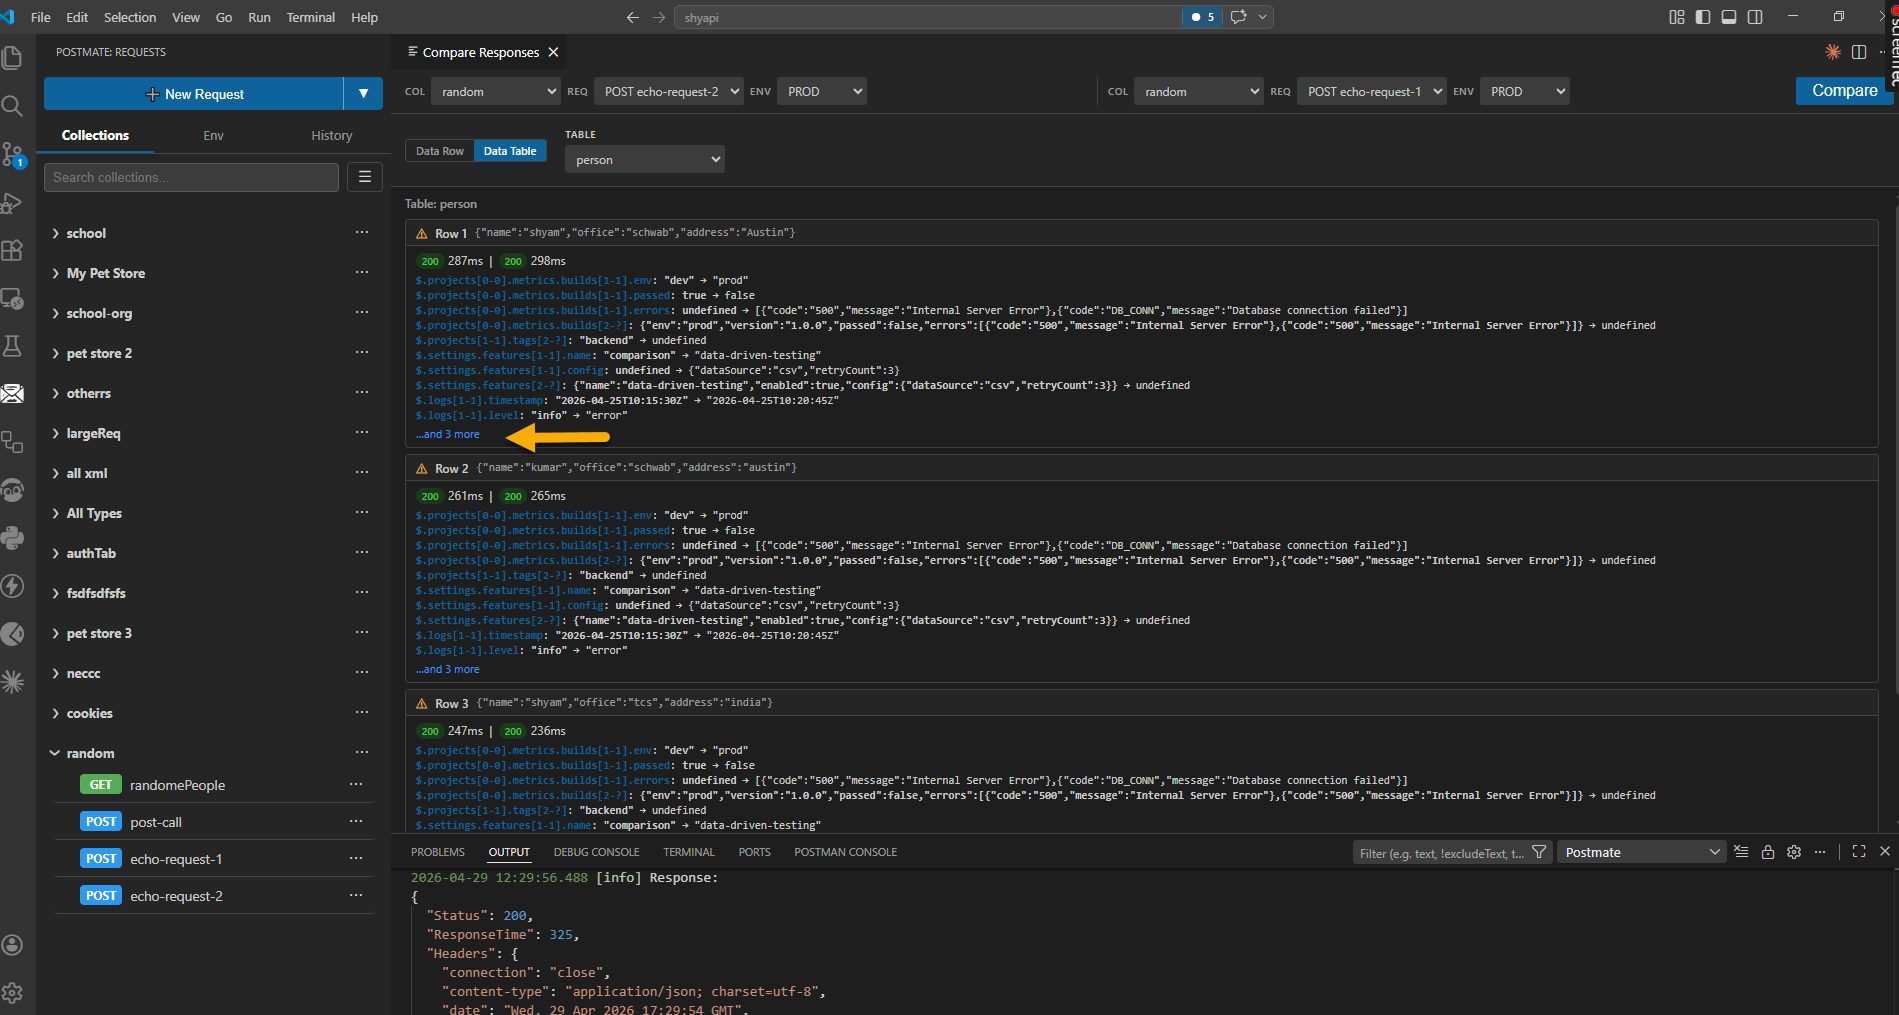
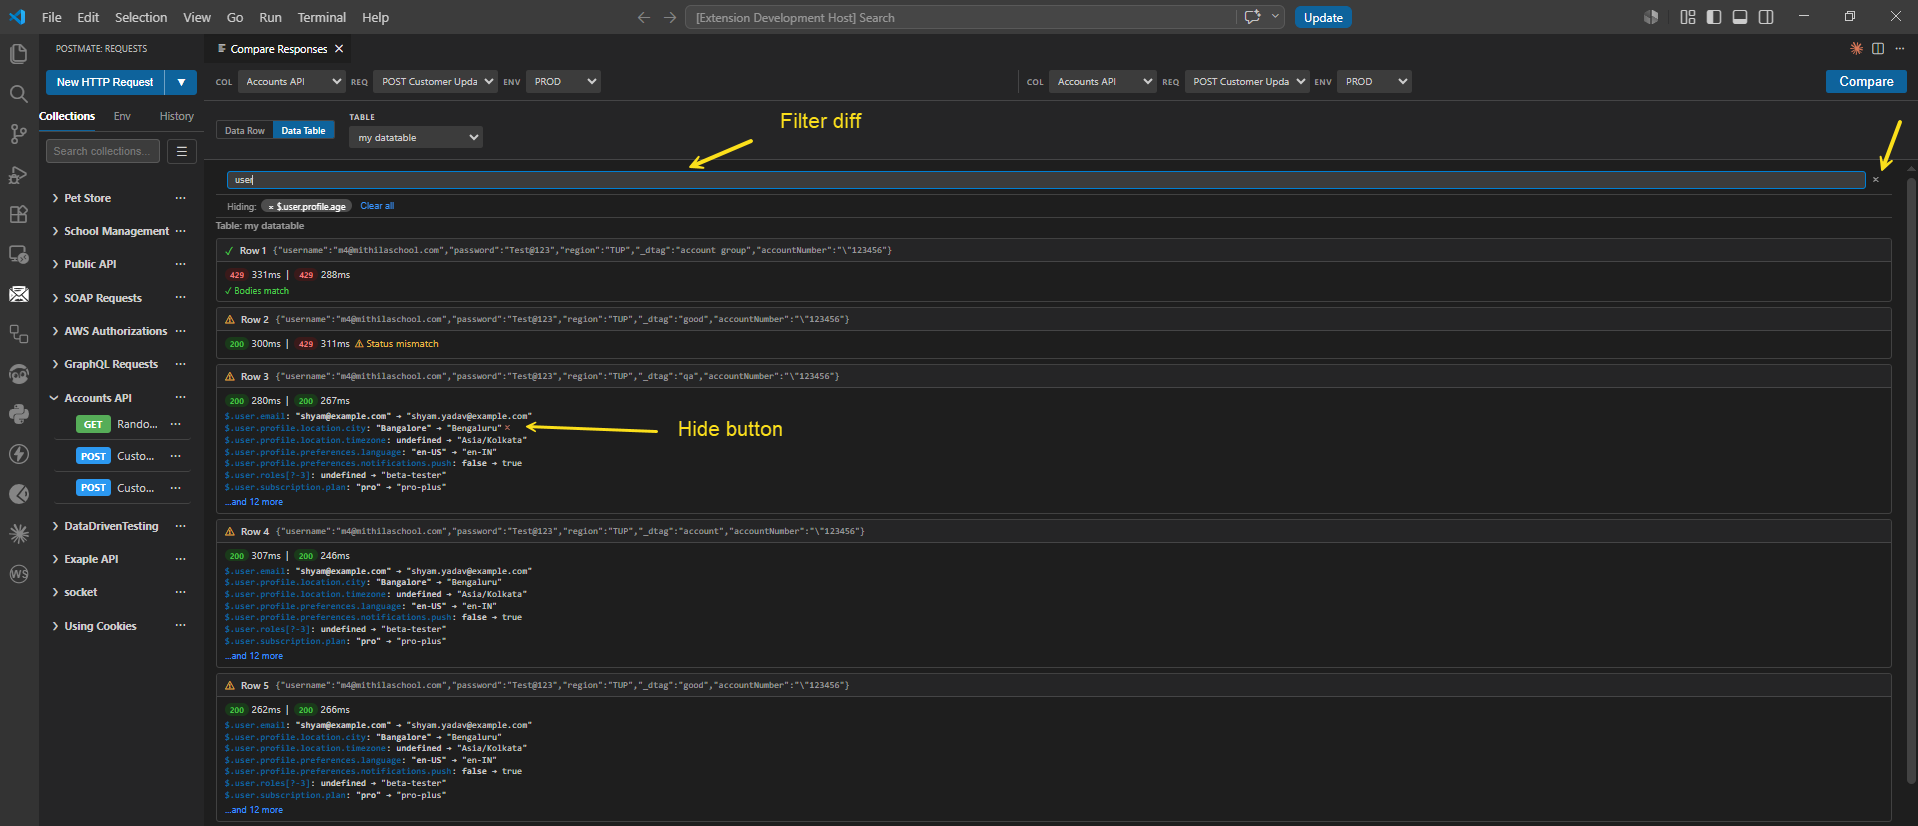
updatge

diff --git a/docs/testing/compare-api-response-bulk-data.md b/docs/testing/compare-api-response-bulk-data.md
@@ -1,18 +1,39 @@
 ---
 title: Compare Bulk API Responses Across Environments | Postmate Client
-description: Compare API responses across two environments using bulk data from a data table. Send parallel requests per row and view only the differences. Ideal for regression testing and environment migrations.
-keywords: compare api responses, bulk api testing, data-driven api testing, api regression testing, compare api across environments, parallel api requests, api response diff, postmate client compare
+description: Compare API responses across two environments using bulk data from a data table. Send parallel requests per row, filter and hide expected diffs, and focus only on what actually changed. Ideal for regression testing and environment migrations.
+keywords: compare api responses, bulk api testing, data-driven api testing, api regression testing, compare api across environments, parallel api requests, api response diff, filter api diff, hide expected diff, postmate client compare, json diff filter, regression noise reduction
+head:
+  - - meta
+    - property: og:title
+      content: Compare Bulk API Responses Across Environments — Postmate Client
+  - - meta
+    - property: og:description
+      content: Compare API responses across two environments using bulk data, filter and hide expected diffs, and focus on what actually changed. Built into VS Code, free.
+  - - meta
+    - property: og:url
+      content: https://www.postmateclient.com/testing/compare-api-response-bulk-data
+  - - meta
+    - name: twitter:title
+      content: Compare Bulk API Responses Across Environments — Postmate Client
+  - - meta
+    - name: twitter:description
+      content: Bulk compare API responses across environments, hide expected diffs, filter noise — free in VS Code.
+  - - link
+    - rel: canonical
+      href: https://www.postmateclient.com/testing/compare-api-response-bulk-data
 ---
 
 # Compare Bulk API Responses Using a Data Table
 
 Postmate Client's **Data Table mode** lets you compare API responses across two environments using bulk input data. Instead of comparing a single request/response pair, Postmate Client sends one request per row in your data table — in parallel to both environments — and shows you only the differences between the responses.
 
+You can also **filter and hide expected differences** so you focus only on what's actually unexpected — turning hundreds of noisy diffs into a clean list of real problems.
+
 This is a companion to [Data Row mode](/testing/compare-api-response). If you're new to response comparison in Postmate Client, start there.
 
-![API response compare with bulk data in postmate client](/public/compare-api-response-bulk.png)
+![Postmate Client bulk API response compare showing per-row diff cards, hide buttons, and filter text box for noise reduction](/compare-api-response-bulk.png)
 
-## When to Use Data Table Mode
+## When to use Data Table mode
 
 Reach for Data Table mode when you need to verify API behavior across many inputs at once. Common scenarios:
 
@@ -23,12 +44,13 @@ Reach for Data Table mode when you need to verify API behavior across many input
 
 If you only need to compare one request, use Data Row mode instead — it's simpler and faster for ad-hoc checks.
 
-## How Data Table Mode Works
+## How Data Table mode works
 
 1. **Pick a data table** — select any data table defined in your collection (for example, a `person` table with columns like `name`, `office`, `address`).
 2. **Select two requests and environments** — choose the request and environment for each side of the comparison (e.g. `POST echo-request-1` on `PROD` vs. `POST echo-request-2` on `PROD`).
 3. **Run the comparison** — Postmate Client iterates through every row in the table and sends both requests in parallel, substituting row values into the request as variables.
 4. **Review per-row diffs** — each row gets its own result card showing only the JSONPath differences between the two responses. Identical fields are hidden so you can focus on what changed.
+5. **Hide expected diffs and filter the noise** — once results start streaming in, use the hide and filter controls (covered below) to reduce hundreds of expected differences into the small set you actually need to investigate.
 
 Each row card displays:
 
@@ -37,9 +59,9 @@ Each row card displays:
 - A line-by-line list of differences using JSONPath notation (e.g. `$.projects[0-0].metrics.builds[1-1].env: "dev" → "prod"`).
 - An expandable **...and N more** link when there are additional differences beyond the first few.
 
-![Select data table for bulk compare](/public/compare-api-responsemode.png)
+![Select data table for bulk compare in Postmate Client](/compare-api-responsemode.png)
 
-## Reading the Diff Output
+## Reading the diff output
 
 Differences are expressed as JSONPath transitions from the left response to the right response. A few examples:
 
@@ -51,28 +73,73 @@ $.logs[1-1].level: "info" → "error"
 
 The notation `[1-1]` refers to array index `1` on both sides; `[2-?]` means the index exists on one side but not the other. A value of `undefined` on either side of the arrow means the field is missing in that response.
 
-## Parallel Execution
+## Filter and hide expected diffs
+
+Bulk comparison runs can produce hundreds or thousands of diffs across rows — many of which are **expected** (different IDs, timestamps, environment names, hostnames, etc.). Postmate Client gives you two complementary tools to cut through this noise.
+
+### Hide an expected diff
+
+When the results stream in, **hover over any diff line** to reveal a small **×** (hide) button on the right side of the line. Click it to suppress that JSONPath across **every row in the result set**.
+
+The hidden key is added to the **Hiding:** panel at the top of the diff view as a chip — for example, `× $.user.profile.age`.
+
+::: tip Array indexes are normalized
+Hiding ignores array index numbers when matching. If you hide `$.orders[1-1].items`, Postmate Client suppresses **every** variant of that path — `$.orders[0-0].items`, `$.orders[2-2].items`, `$.orders[7-?].items`, and so on. This means one click hides a class of expected differences, not just a single occurrence.
+:::
+
+This is the main noise-reduction mechanism. Use it for paths you know will always differ between the two environments — generated IDs, timestamps, internal hostnames, anything environment-specific.
+
+### Unhide a key
+
+To bring a hidden key back, click its chip in the **Hiding:** panel — every previously-suppressed diff matching that path will reappear in the result list.
+
+### Clear all hidden keys
+
+Click **Clear all** next to the hiding chips to **unhide everything at once**, restoring the full unfiltered diff list. Useful after a long investigation when you want to reset and start fresh.
+
+### Filter by text
+
+The text input above the diff list works as a **substring filter**. As you type, only diff lines containing your text remain visible — useful when you want to focus on a specific area of the response (e.g. type `user` to see only diffs under `$.user.*`).
+
+Filter is non-destructive: it narrows the view without changing the underlying data, and clearing the text restores the full list immediately. Use the **×** at the right side of the text box to clear the filter in one click.
+
+### Filter vs Hide — when to use which
+
+| | Filter | Hide |
+|---|---|---|
+| Mechanism | Narrows the view to lines matching text | Suppresses entire JSONPath patterns |
+| Array-index aware? | No — literal substring match | Yes — `[N-N]` is normalized |
+| Persists across runs? | Local to current view | Local to current view |
+| Best for | Focusing on one area temporarily | Permanently silencing expected diffs |
+| Restore | Clear the text box or click × | Click chip or **Clear all** |
+
+In practice you'll use both: hide the diffs you know are expected (timestamps, generated IDs), then filter to drill into the area you care about most.
+
+## Parallel execution
 
 Both requests for a given row are sent at the same time, so wall-clock runtime is roughly the slower of the two environments per row, not the sum. Response times are shown per row so you can spot environments that are degrading even when the response bodies match.
 
-## Tips for Effective Bulk Comparison
+## Tips for effective bulk comparison
 
 - **Start small.** Run against 5–10 representative rows first to confirm your variable substitution works before pointing at a 10,000-row table.
-- **Pin response times in mind, not just bodies.** A matching body with a 10x slower response is still a regression worth investigating.
-- **Use stable, deduplicated inputs.** Rows with timestamps, UUIDs, or other non-deterministic data will produce noisy diffs. Either strip these from the comparison or accept that those paths will always differ.
+- **Hide expected diffs aggressively.** Identifiers, timestamps, computed hashes, environment hostnames — all of these will differ by design. Hide them on the first run and the unexpected diffs become much easier to spot.
+- **Watch response times, not just bodies.** A matching body with a 10x slower response is still a regression worth investigating. The per-row response times surface this even when the diff list is empty.
+- **Combine hide with filter for big result sets.** First hide the categories of expected diffs, then use the filter to focus on the area you're actively investigating.
 - **Keep a "golden" dataset.** Maintain a curated table of inputs that exercise known edge cases — it pays for itself the first time it catches a regression.
 
-## Data Row vs. Data Table — Quick Reference
+## Data Row vs Data Table — quick reference
 
 | | Data Row | Data Table |
 |---|---|---|
 | Input | Single request | One request per table row |
 | Execution | Two parallel requests | `2 × N` parallel requests |
 | Output | One diff view | One diff card per row |
+| Filter & Hide controls | — | ✅ Available |
 | Best for | Ad-hoc checks, debugging | Regression testing, migrations |
 
 ## Related
 
 - [Compare API responses (Data Row mode)](/testing/compare-api-response)
 - [Working with data tables in Postmate Client](/data-driven/data-tables)
+- [Per-request data tagging with `_dtag`](/data-driven/data-tagging)
 - [Environment management](/core-concepts/environments)
